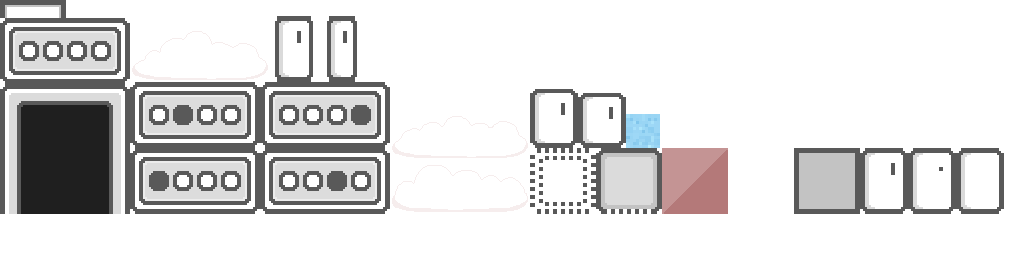
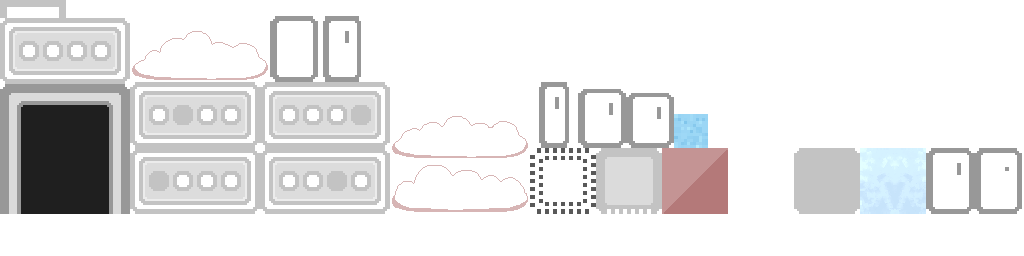
Tinkering with cloud placement and density.

diff --git a/core/src/core/WeatherSystem.java b/core/src/core/WeatherSystem.java
@@ -15,6 +15,9 @@ import com.badlogic.gdx.utils.Array;
 
 public class WeatherSystem implements IRender, IUpdate {
 
+	public static final float CLOUDS_CELL_WIDTH = Globals.getCamera().getViewportWidth() * 0.8f;
+	public static final float CLOUDS_CELL_HEIGHT = Globals.getCamera().getViewportHeight() * 0.7f;
+	
 	public static WeatherSystem instance;
 	
 	private final Array<ParticleEffect> _clouds = new Array<ParticleEffect>();
@@ -108,8 +111,8 @@ public class WeatherSystem implements IRender, IUpdate {
 	}
 	
 	private void _resetCloudMap() {
-		int numRows = MathUtils.ceil(Globals.getGameWorld().getHeight() / (Globals.getCamera().getViewportHeight() / 3));
-		int numCols = MathUtils.ceil(Globals.getGameWorld().getWidth() / (Globals.getCamera().getViewportWidth() / 3));
+		int numRows = MathUtils.ceil(Globals.getGameWorld().getHeight() / CLOUDS_CELL_HEIGHT);
+		int numCols = MathUtils.ceil(Globals.getGameWorld().getWidth() / CLOUDS_CELL_WIDTH);
 		_cloudMap = new ParticleEffect[numRows][numCols];
 		for(int i = 0; i < _cloudMap.length; i++) {
 			for(int j = 0; j < _cloudMap[0].length; j++) {
@@ -119,7 +122,7 @@ public class WeatherSystem implements IRender, IUpdate {
 	}
 
 	private void _tryCreateClouds(boolean randomFadeIn) {
-		int maxNumClouds = _cloudMap.length * _cloudMap[0].length / 6;
+		int maxNumClouds = (int)(_cloudMap.length * _cloudMap[0].length * 0.75f);
 		while(_clouds.size < maxNumClouds) {
 			_createCloud(randomFadeIn);
 		}
@@ -133,13 +136,12 @@ public class WeatherSystem implements IRender, IUpdate {
 			if(_cloudMap[row][col] == null) {
 				pos = _getCloudPosition(row, col);
 				
-				float offsetY = MathUtils.random(-Globals.getCamera().getViewportWidth() / 16, 
-						                          Globals.getCamera().getViewportWidth() / 16);
+				float offsetY = MathUtils.random(-CLOUDS_CELL_HEIGHT / 4, CLOUDS_CELL_HEIGHT / 4);
 				pos.add(0, offsetY);
 				
 				ParticleEffect cloud = Globals.getParticleEffectManager().getParticleEffect("cloud", pos.x, pos.y);
-				cloud.imageKey("cloud_" + MathUtils.random(1, 3));
-				cloud.minMaxSize(Globals.getCamera().getViewportWidth() * 0.5f, Globals.getCamera().getViewportWidth());
+				cloud.imageKey("cloud_" + MathUtils.random(1, 1));
+				cloud.minMaxSize(Globals.getCamera().getViewportWidth() * 0.8f, Globals.getCamera().getViewportWidth());
 				cloud.fadeIn(randomFadeIn ? MathUtils.randomBoolean(0.3f) : true);
 	            cloud.buildParticles();
 				
@@ -160,7 +162,6 @@ public class WeatherSystem implements IRender, IUpdate {
 	}
 	
 	private Vector2 _getCloudPosition(int mapRow, int mapCol) {
-		return new Vector2(mapCol * (Globals.getCamera().getViewportWidth() / 2), 
-				           mapRow * (Globals.getCamera().getViewportHeight() / 2));
+		return new Vector2(mapCol * CLOUDS_CELL_WIDTH, mapRow * CLOUDS_CELL_HEIGHT);
 	}
 }

diff --git a/core/src/screen/GameScreen.java b/core/src/screen/GameScreen.java
@@ -128,7 +128,7 @@ public final class GameScreen implements Screen {
 		_spriteBatch.setProjectionMatrix(camera.combined);
 		
 		_spriteBatch.begin();
-		Globals.getCurrentRoom().renderBackground(_spriteBatch);
+		//Globals.getCurrentRoom().renderBackground(_spriteBatch);
 		_spriteBatch.end();
 			
 		if(!Globals.isGameLoading()) {
@@ -213,8 +213,9 @@ public final class GameScreen implements Screen {
 		_tileMap.render(TileMapLayerType.FOREGROUND, _spriteBatch);
 	}
 	
+    private float r = (240 / 255.0f), g = (250 / 255.0f), b = (250 / 255.0f);
 	private void clearScreen() {
-		Gdx.gl.glClearColor((0 / 255.0f), (0 / 255.0f), (0 / 255.0f), 1);
+		Gdx.gl.glClearColor(r, g, b, 1);
 		Gdx.gl.glClear(GL20.GL_COLOR_BUFFER_BIT);
 	}
 	
@@ -230,6 +231,9 @@ public final class GameScreen implements Screen {
 		}
 
 		flashAlpha = Math.max(Math.min(flashAlpha, 1), 0);
+		r = (240 / 255.0f) * flashAlpha;
+		g = (250 / 255.0f) * flashAlpha;
+		b = (250 / 255.0f) * flashAlpha;
 		_spriteBatch.setColor(flashAlpha, flashAlpha, flashAlpha, 1);
 		_tileMap.getBatch().setColor(flashAlpha, flashAlpha, flashAlpha, 1);
 		
